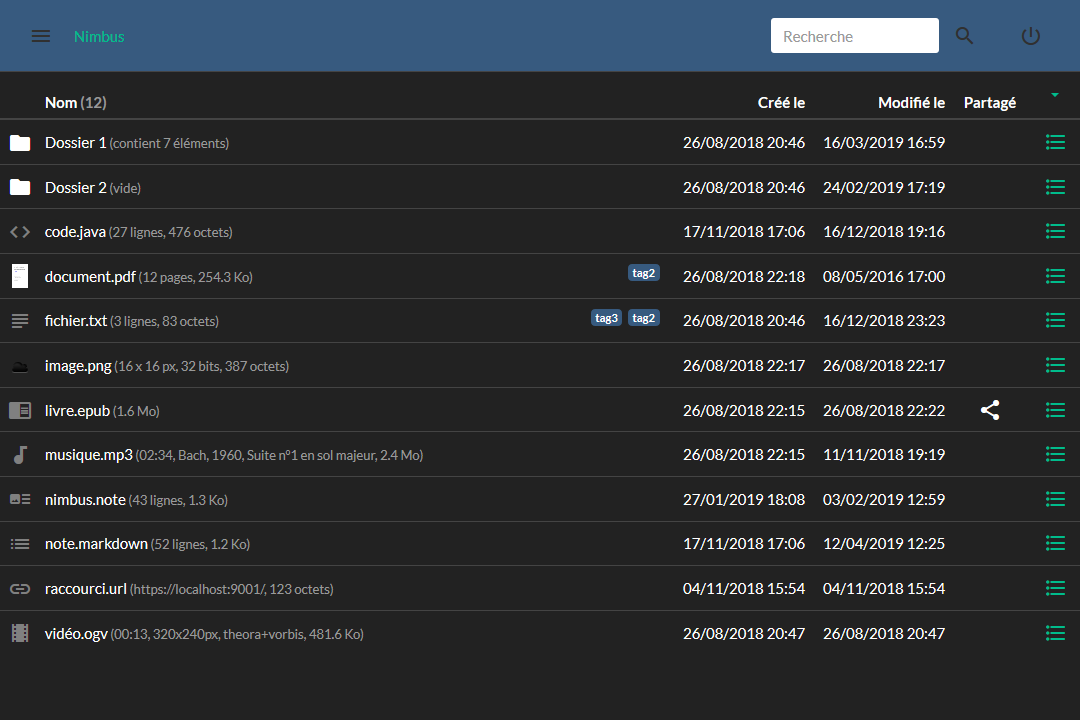
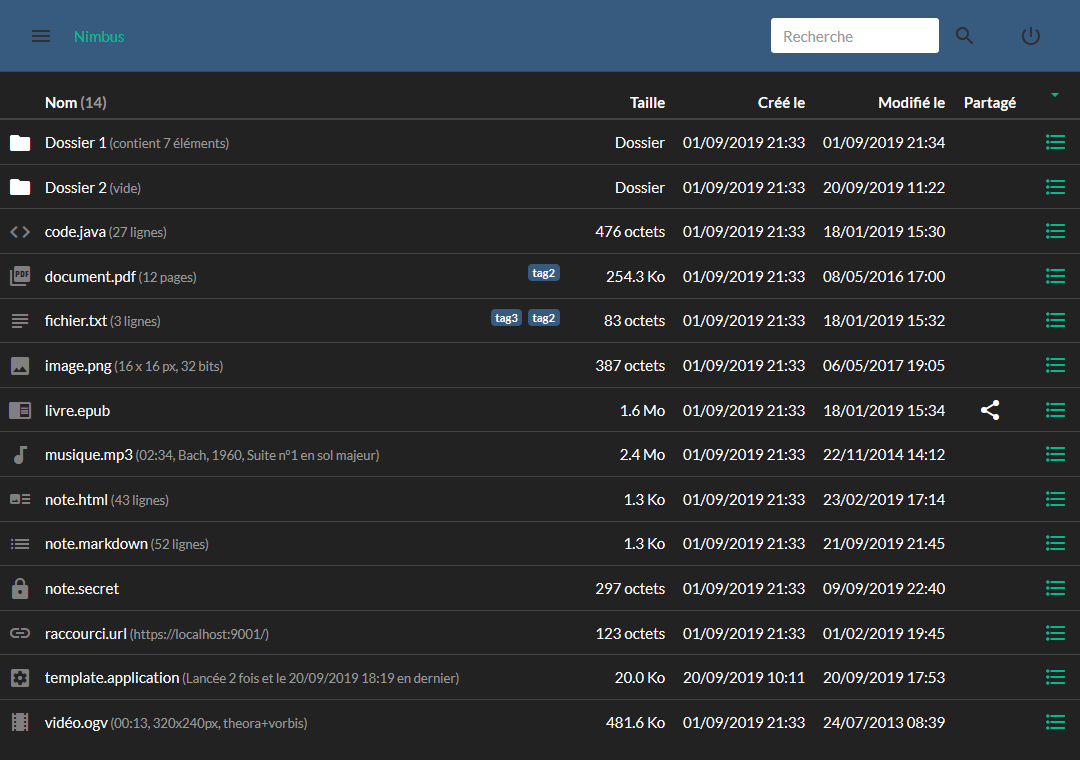
Préparation pour version 1.3 (mise à jour des fichiers de projet et des captures d'écran)

diff --git a/README.md b/README.md
@@ -33,7 +33,7 @@ Dépendance | Type | Version | Utilité | Fichiers
 [Commons IO](https://commons.apache.org/proper/commons-io/) | Java | 2.6 | Apache 2.0 | Utilitaire
 [FreeMarker](https://freemarker.apache.org/) | Java | 2.3.29 | Apache 2.0 | Template de page
 [Gson](https://github.com/google/gson) | Java | 2.8.5 | Apache 2.0 | Support du format JSON
-[PDFBox](https://pdfbox.apache.org/) | plugin Java | 2.0.16 | Apache 2.0 | Support des fichiers PDF
+[PDFBox](https://pdfbox.apache.org/) | plugin Java | 2.0.17 | Apache 2.0 | Support des fichiers PDF
 [Image4j](http://image4j.sourceforge.net/) | plugin Java | 0.7.1 | LGPL | Support des fichiers ICO et BMP
 [MetadataExtractor](https://github.com/drewnoakes/metadata-extractor/releases) | plugin Java | 2.12.0 | Apache 2.0 | Support des métadonnées (EXIF/GPS) des images JPEG
 [Jave](http://www.sauronsoftware.it/projects/jave/download.php) | plugin Java | 1.0.2 | GPL | Support audio et vidéo grâce à FFmpeg
@@ -109,7 +109,7 @@ Tout type de fichier peut être stockés dans `Nimbus`. Toutefois, des fonctions
 - Fichiers texte :
     - les fichiers texte (cf *text.file.extensions* dans *nimbus.conf*) peuvent être édités dans Nimbus en utilisant l'action `Ouvrir dans l'éditeur de texte`
     - les notes au format Markdown (`.markdown` ou `.md`) peuvent être saisies et prévisualisées en HTML, dans Nimbus, grâce à [Marked.js](https://github.com/markedjs/marked) et [Prism.js](https://github.com/PrismJS/prism)
-    - les notes au format HTML (`.note` pour Nimbus), peuvent être éditées dans Nimbus grâce à une application WYSIWYG dédiée
+    - les notes au format HTML (`.html` ou `.note`), peuvent être éditées dans Nimbus grâce à une application WYSIWYG dédiée
     - le `code source` peut être édité dans Nimbus grâce à [CodeMirror](https://codemirror.net/) en utilisant l'action `Ouvrir dans l'éditeur de code`
 - Notes chiffrées :
     - les fichiers dont l'extension est `.secret` sont considérés comme des notes chiffrées par AES-256 bits et éditables en utilisant l'action `Afficher ou modifier le contenu`
